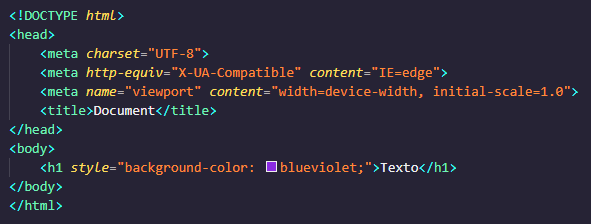
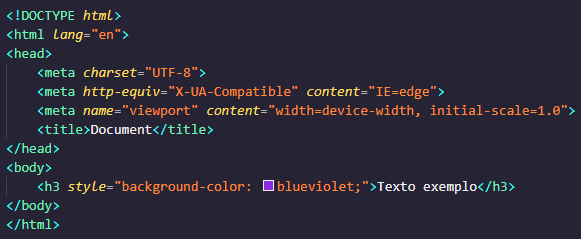
little updates

Changed region(s): [[0.0, 0.125, 0.9914, 0.9688], [0.0, 0.0312, 0.2169, 0.0938], [0.0, 0.2812, 0.031, 0.5312]]

diff --git a/html/coment.html b/html/coment.html
@@ -1,5 +1,6 @@
 <!DOCTYPE html>
 <html lang="pt-br">
+
 <head>
     <meta charset="UTF-8">
     <meta http-equiv="X-UA-Compatible" content="IE=edge">
@@ -10,12 +11,13 @@
     <link rel="stylesheet" href="../reset.css">
     <link rel="stylesheet" href="../style.css">
     <link rel="stylesheet" href="../component/header.css">
-    <link rel="stylesheet" href="../component/title-post.css">
+    <link rel="stylesheet" href="../component/post.css">
     <title>Docs - comment</title>
 </head>
+
 <body>
     <header class="header">
-        <a href="index.html" class="logo-title">
+        <a href="../index.html" class="logo-title">
             <img class="logo" src="../assets/image 27.png" alt="Logo do Site">
             <span class="title-nav">Simple Doc</span>
         </a>
@@ -25,16 +27,23 @@
             <a class="contato-button" href="../pages/error_404.html">Contato</a>
         </nav>
     </header>
+
+    <a class="voltar" href="javascript:history.back()">
+        <span class="material-icons-outlined">
+            arrow_back
+        </span>
+    </a>
+
     <article>
         <h1 class="title-post">Comentário &lt;!-- --&gt;</h1>
     </article>
     <main class="main-post">
         <h3 class="paragrafo-post">
-            O comentário é uma é uma funcionalidade importante para todo programa, 
-            ele facilita no entendimento dos componentes e partes do programa/site. 
+            O comentário é uma é uma funcionalidade importante para todo programa,
+            ele facilita no entendimento dos componentes e partes do programa/site.
         </h3>
         <h3 class="paragrafo-post">
-            O comentário é uma parte do código que não tem funcionalidade prática, 
+            O comentário é uma parte do código que não tem funcionalidade prática,
             o usuário não irá visualizar ele, nem terá uma mudança no site. Somente
             os programadores poderão visualizar.
         </h3>
@@ -47,9 +56,10 @@
         </h3>
         <img class="imagem-post" src="../assets/comment-2-html.png" alt="Demonstração comentário">
         <h3 class="paragrafo-post">
-            Também é usado muitas vezes para "desativar" partes do código, as utilidades 
+            Também é usado muitas vezes para "desativar" partes do código, as utilidades
             dessa tag são variadas.
         </h3>
     </main>
 </body>
+
 </html>

diff --git a/html/style.html b/html/style.html
@@ -10,12 +10,15 @@
     <link rel="stylesheet" href="../reset.css">
     <link rel="stylesheet" href="../style.css">
     <link rel="stylesheet" href="../component/header.css">
-    <link rel="stylesheet" href="../component/title-post.css">
+    <link rel="stylesheet" href="../component/post.css">
+    <link
+    href="https://fonts.googleapis.com/css?family=Material+Icons|Material+Icons+Outlined|Material+Icons+Two+Tone|Material+Icons+Round|Material+Icons+Sharp"
+    rel="stylesheet">
     <title>Docs - comment</title>
 </head>
 <body>
     <header class="header">
-        <a href="index.html" class="logo-title">
+        <a href="../index.html" class="logo-title">
             <img class="logo" src="../assets/image 27.png" alt="Logo do Site">
             <span class="title-nav">Simple Doc</span>
         </a>
@@ -25,6 +28,11 @@
             <a class="contato-button" href="../pages/error_404.html">Contato</a>
         </nav>
     </header>
+    <a class="voltar" href="javascript:history.back()">
+    <span class="material-icons-outlined">
+        arrow_back
+        </span>
+    </a>
     <article>
         <h1 class="title-post">Style &lt;Style&gt;</h1>
     </article>
@@ -49,6 +57,10 @@
             Uma outra forma de usar o style é individualmente nas tags do site, como por exemplo:
         </h3>
         <img class="imagem-post" src="../assets/style.3.png" alt="Demonstração style">
+        <h3 class="paragrafo-post">
+            O código em funcionamento:
+            <h3 style="background-color: blueviolet;">Texto exemplo</h3>
+        </h3>
 <!--
     <img class="imagem-post" src="../assets/comment-2-html.png" alt="Demonstração comentário">
     <h3 class="paragrafo-post">

diff --git a/html/head.html b/html/head.html
@@ -11,13 +11,13 @@
     <link rel="stylesheet" href="../reset.css">
     <link rel="stylesheet" href="../style.css">
     <link rel="stylesheet" href="../component/header.css">
-    <link rel="stylesheet" href="../component/title-post.css">
+    <link rel="stylesheet" href="../component/post.css">
     <title>Docs - head</title>
 </head>
 
 <body>
     <header class="header">
-        <a href="index.html" class="logo-title">
+        <a href="../index.html" class="logo-title">
             <img class="logo" src="../assets/image 27.png" alt="Logo do Site">
             <span class="title-nav">Simple Doc</span>
         </a>
@@ -28,6 +28,13 @@
             <link rel="stylesheet" href="../component/link.css">
         </nav>
     </header>
+
+    <a class="voltar" href="javascript:history.back()">
+        <span class="material-icons-outlined">
+            arrow_back
+        </span>
+    </a>
+
     <article>
         <h1 class="title-post">Head &lt;head&gt;</h1>
     </article>
@@ -86,7 +93,7 @@
         </h3>
         <img class="imagem-post" src="../assets/meta-2.png" alt="Demonstração charset">
         <h3 class="paragrafo-post">
-            Essa tag funciona da seguinte forma, coloca-se o nome que quiser na informação. Como por 
+            Essa tag funciona da seguinte forma, coloca-se o nome que quiser na informação. Como por
             exemplo o autor e a descrição no "name=". e colocando o conteudo em "content=".
         </h3>
         <!--    

diff --git a/html/html.html b/html/html.html
@@ -10,12 +10,12 @@
     <link rel="stylesheet" href="../reset.css">
     <link rel="stylesheet" href="../style.css">
     <link rel="stylesheet" href="../component/header.css">
-    <link rel="stylesheet" href="../component/title-post.css">
+    <link rel="stylesheet" href="../component/post.css">
     <title>Docs - html</title>
 </head>
 <body>
     <header class="header">
-        <a href="index.html" class="logo-title">
+        <a href="../index.html" class="logo-title">   
             <img class="logo" src="../assets/image 27.png" alt="Logo do Site">
             <span class="title-nav">Simple Doc</span>
         </a>
@@ -25,6 +25,13 @@
             <a class="contato-button" href="../pages/error_404.html">Contato</a>
         </nav>
     </header>
+    
+    <a class="voltar" href="javascript:history.back()">
+    <span class="material-icons-outlined">
+        arrow_back
+        </span>
+    </a>
+
     <article>
         <h1 class="title-post">Html &lt;HTML&gt;</h1>
     </article>

diff --git a/pages/doc-html.html b/pages/doc-html.html
@@ -17,7 +17,7 @@
 </head>
 <body>
     <header class="header">
-        <a href="index.html" class="logo-title">
+        <a href="../index.html" class="logo-title">
             <img class="logo" src="../assets/image 27.png" alt="Logo do Site">
             <span class="title-nav">Simple Doc</span>
         </a>
@@ -90,16 +90,4 @@
         </section>
     </article>
 </body>
-</html>
-
-
-
-
-<html>
-  <head>
-    <style></style>
-  </head>
-  <body>
-        
-  </body>
 </html>

diff --git a/component/post.css b/component/post.css
@@ -2,7 +2,7 @@
     font-size: 45px;
     color: #04d300;
     padding-bottom: 20px;
-    padding-top: 40px;
+    padding-top: 20px;
 }
 
 .main-post{
@@ -13,8 +13,14 @@
 
 .paragrafo-post{
     padding-bottom: 20px;
+    text-indent: 20px;
 }
 
 .imagem-post{
     padding-bottom: 20px;
+}
+
+.voltar{
+    display: inline-block;
+    margin-top: 2%;
 }

diff --git a/pages/doc-selector.html b/pages/doc-selector.html
@@ -16,7 +16,7 @@
 </head>
 <body>
     <header class="header">
-        <a href="index.html" class="logo-title">
+        <a href="../index.html" class="logo-title">
             <img class="logo" src="../assets/image 27.png" alt="Logo do Site">
             <span class="title-nav">Simple Doc</span>
         </a>

diff --git a/index.html b/index.html
@@ -28,7 +28,7 @@
 
 <body>
     <header class="header">
-        <a href="index.html" class="logo-title">
+        <a href="./index.html" class="logo-title">
             <img class="logo" src="assets/image 27.png" alt="Logo do Site">
             <span class="title-nav">Simple Doc</span>
         </a>
